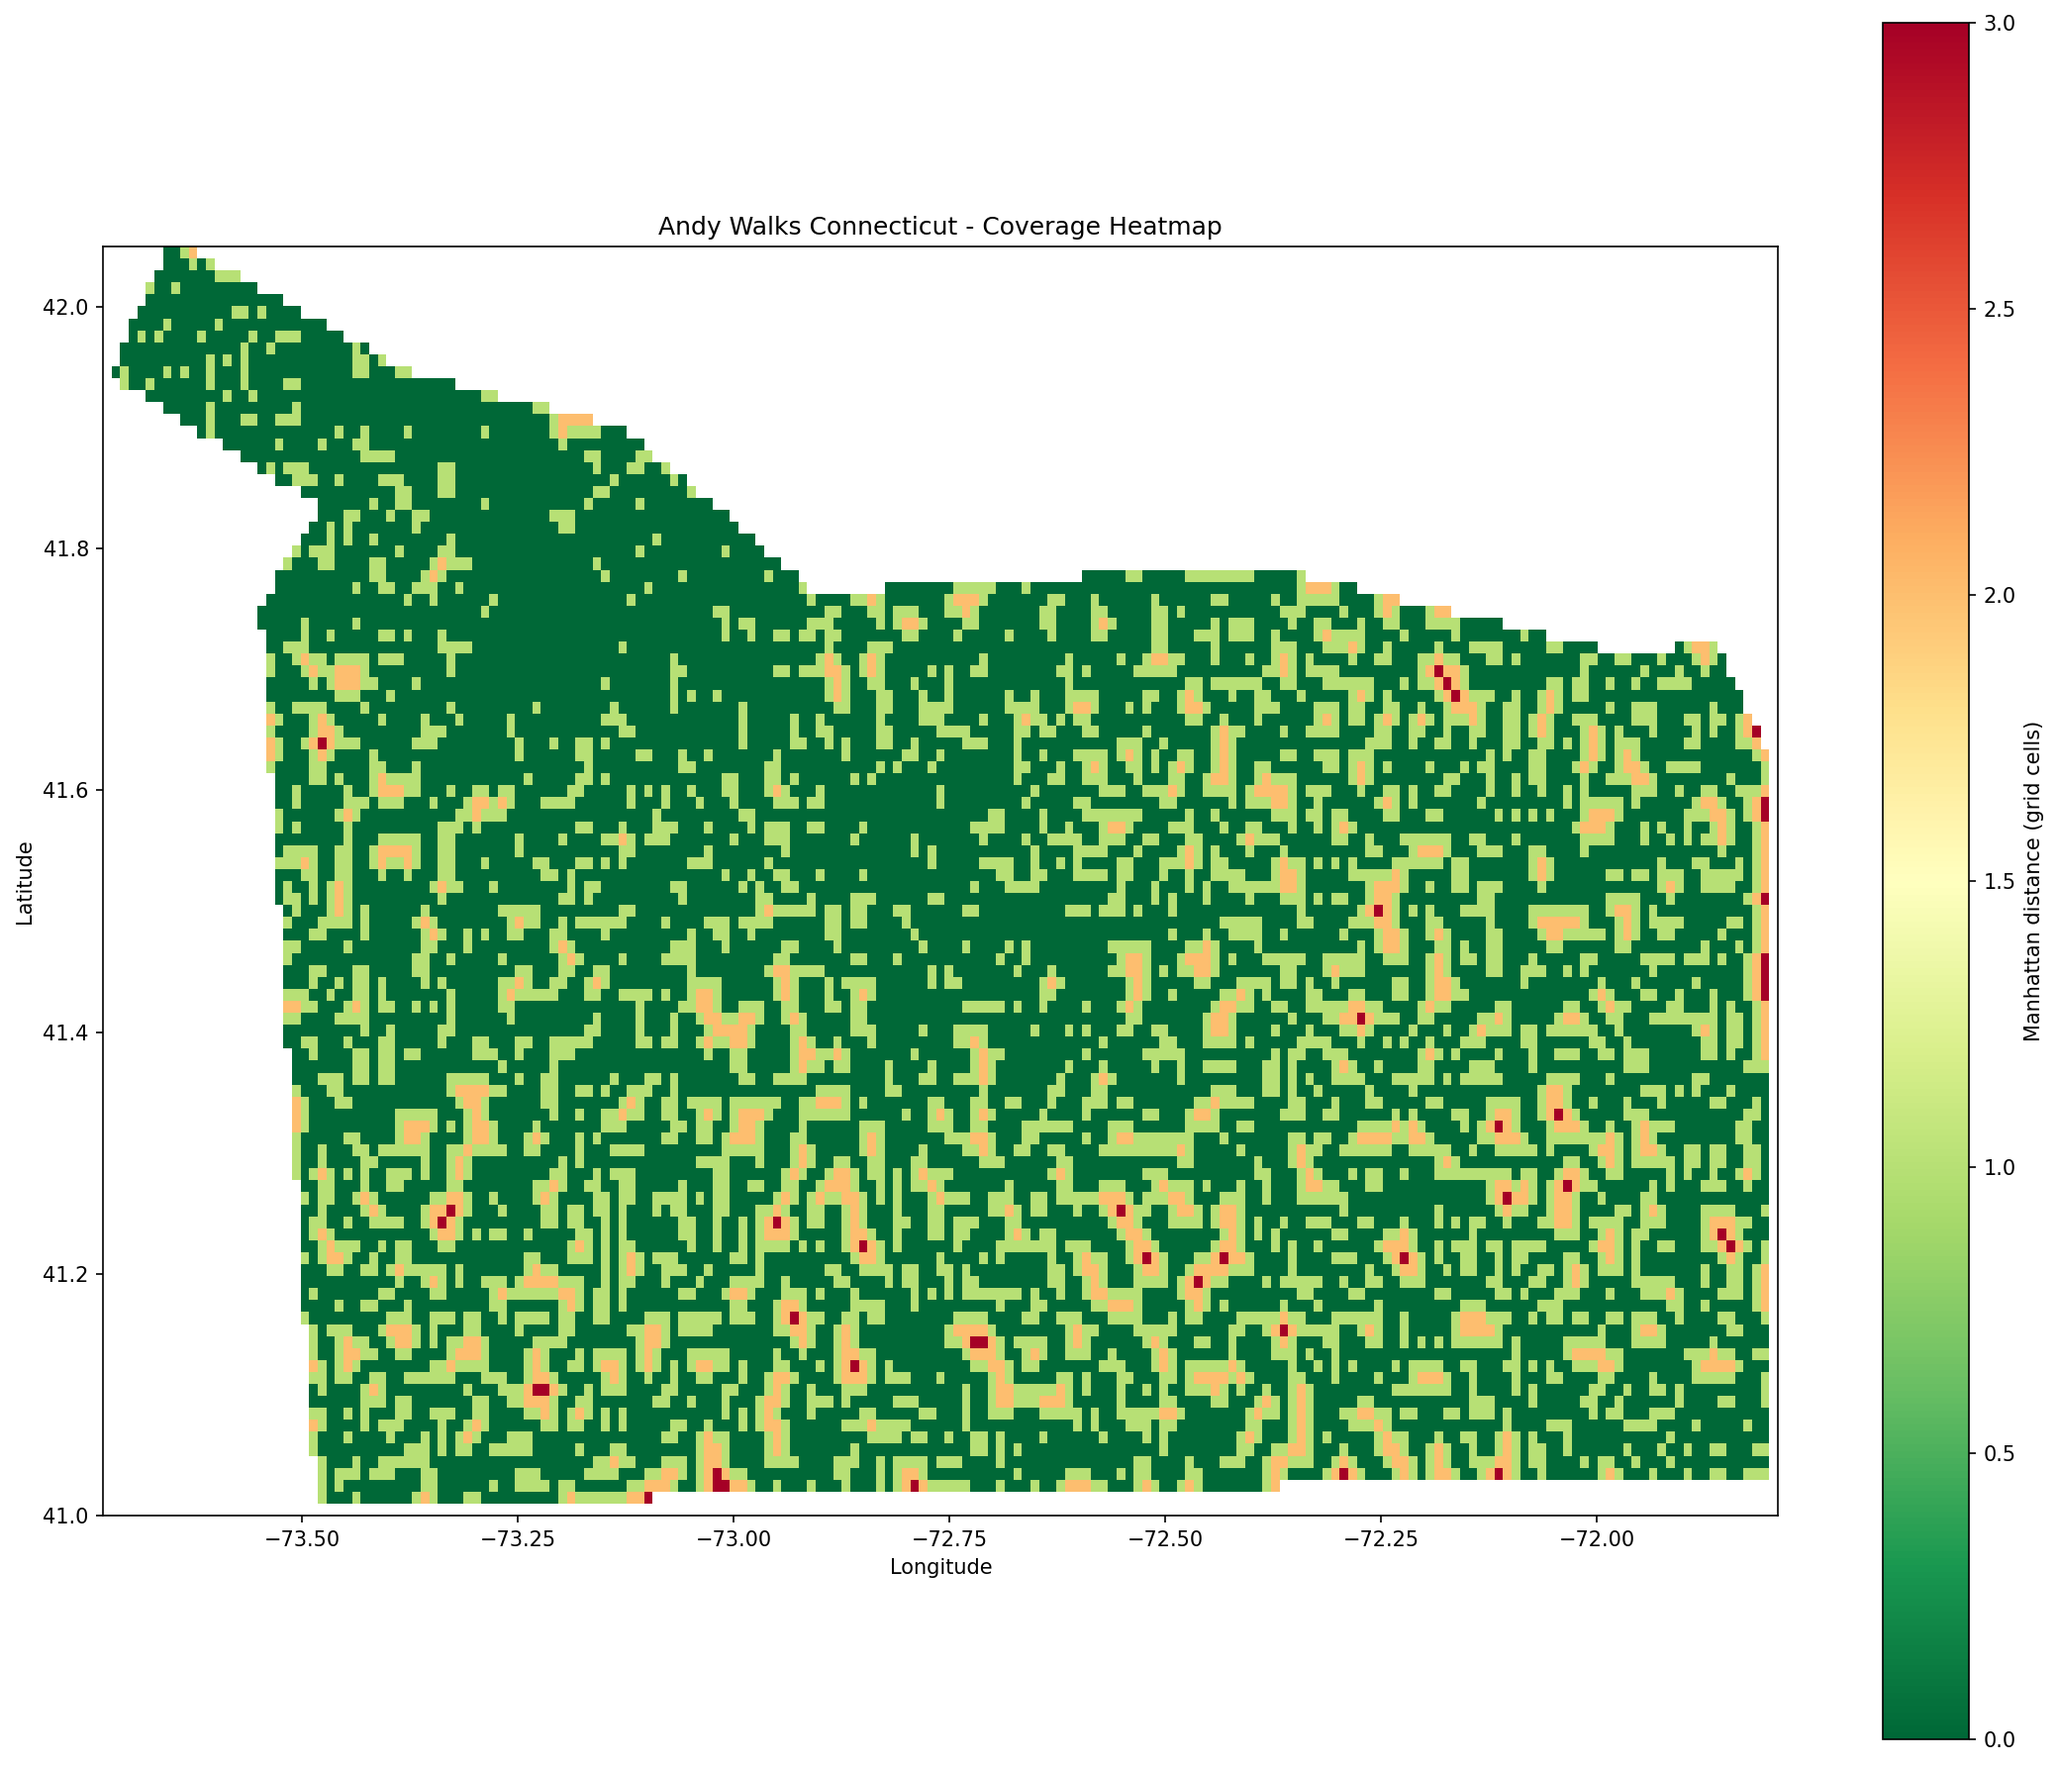
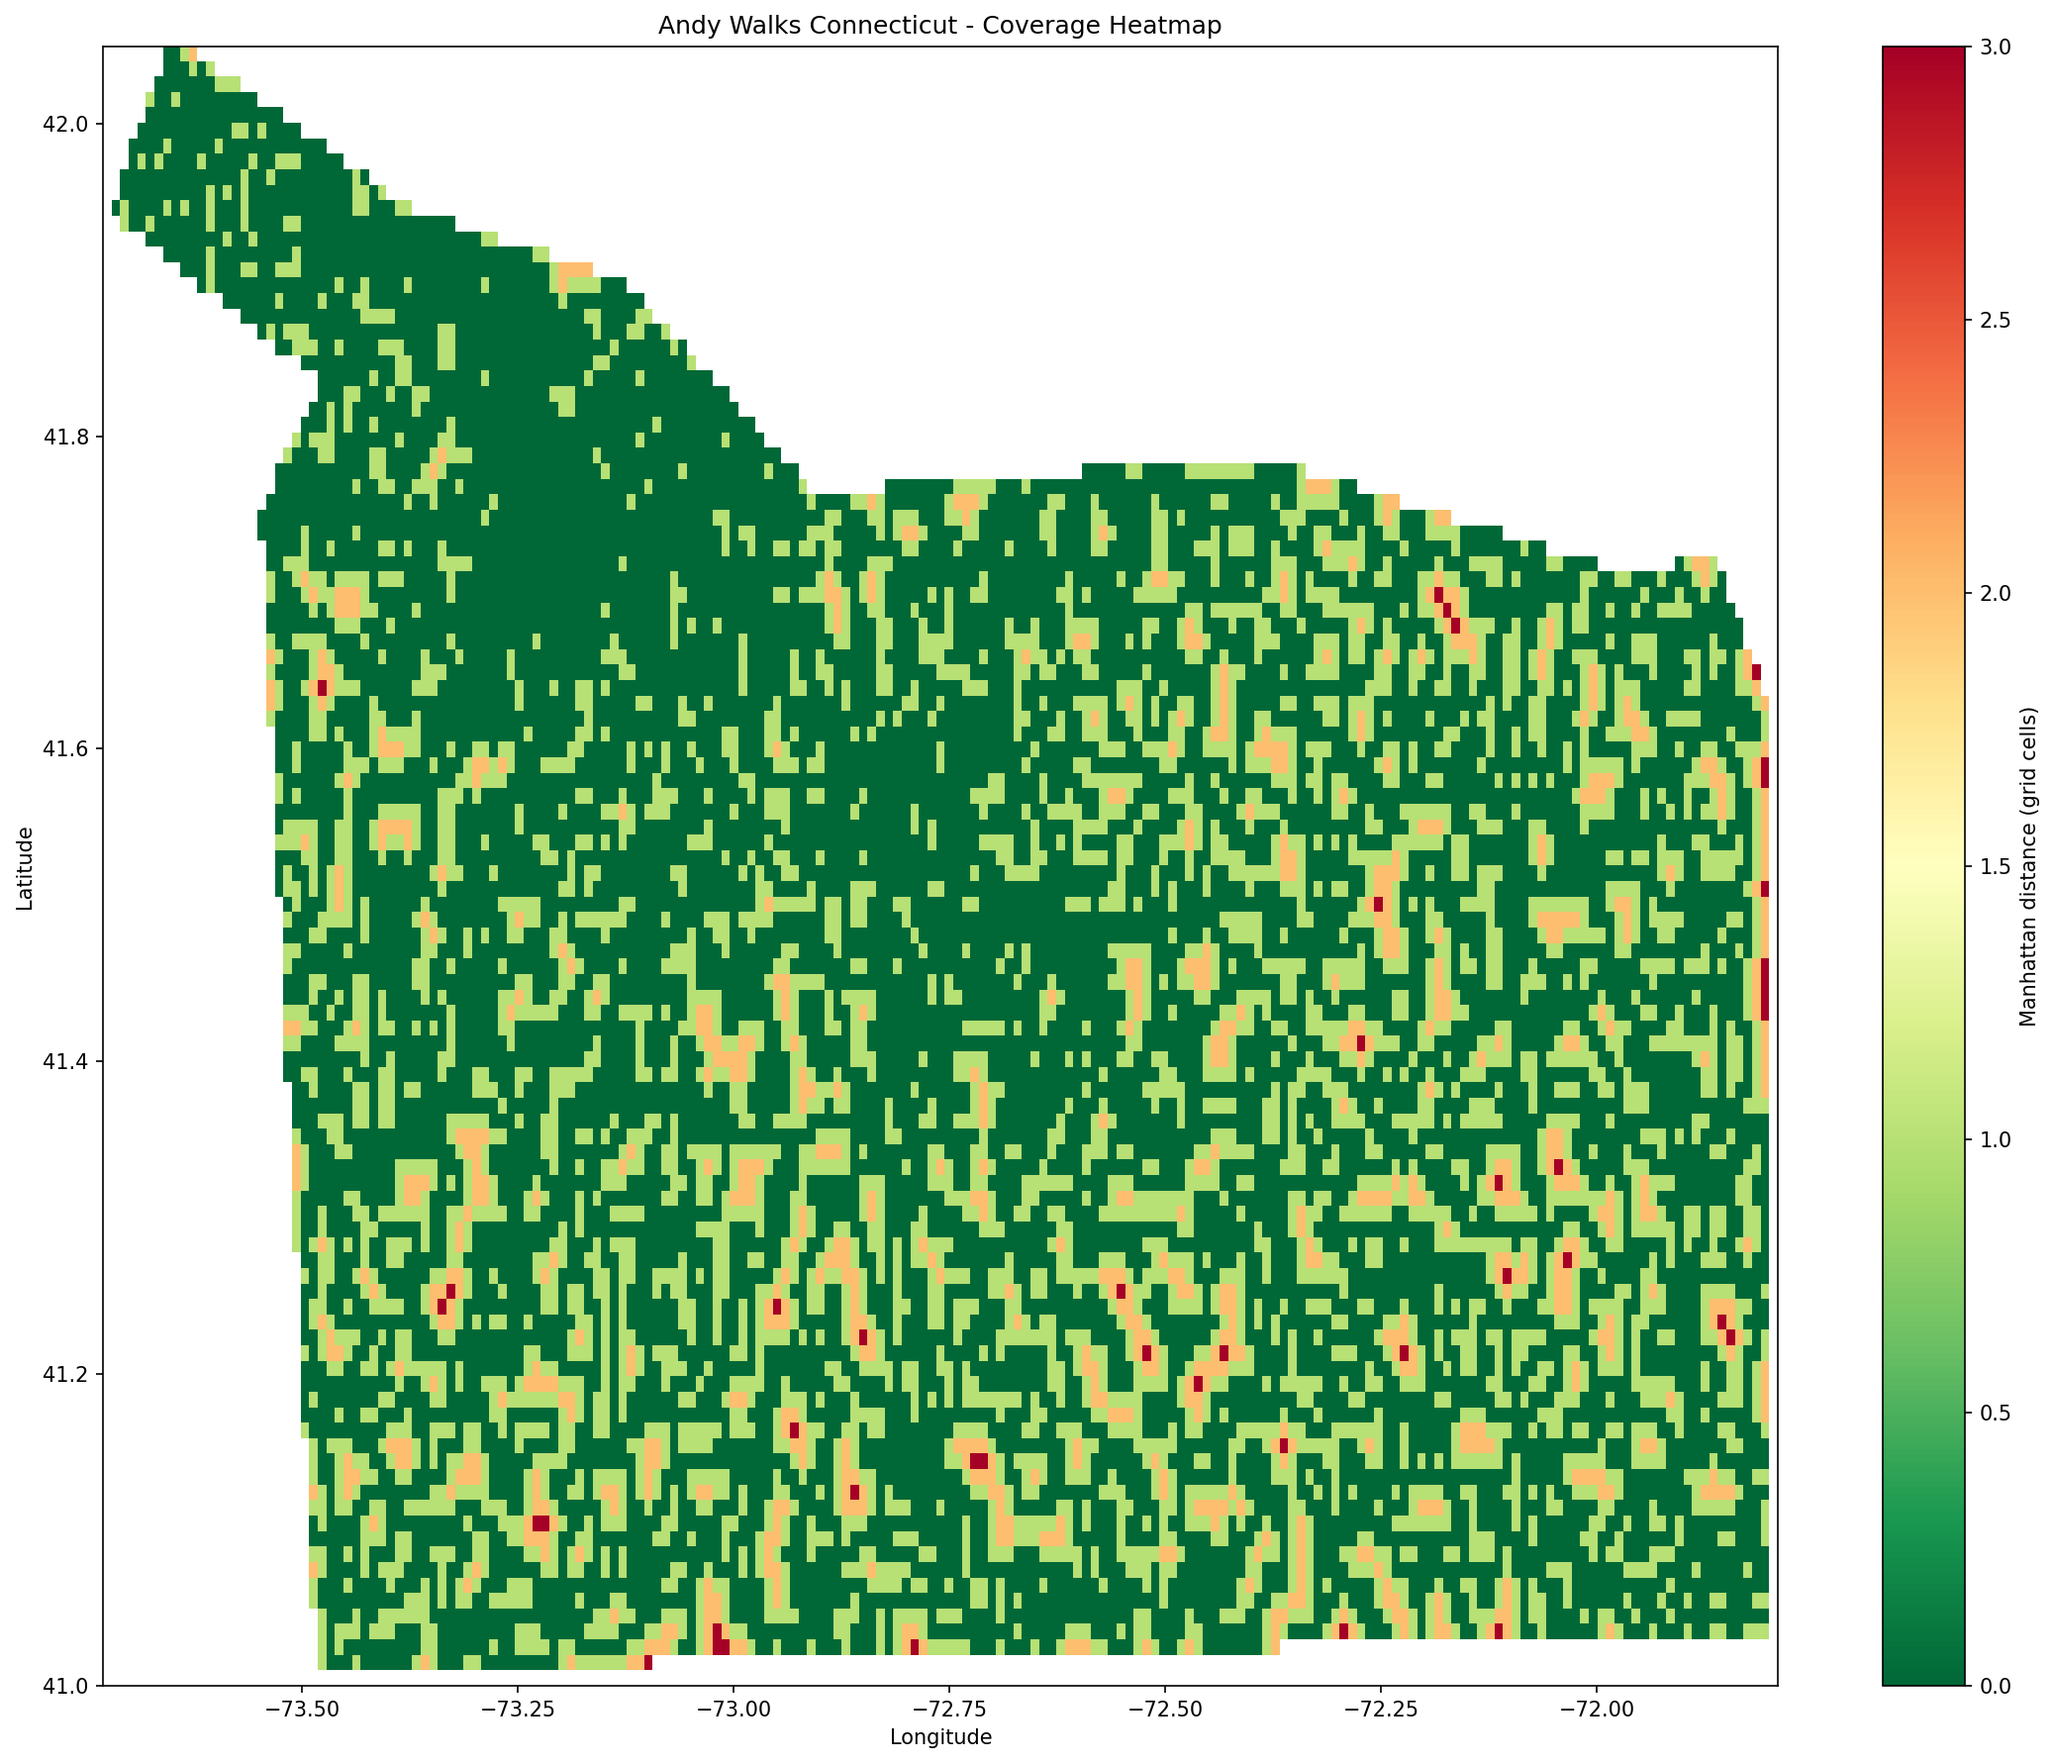
Fix heatmap display: remove double-flip and use auto aspect ratio
Changed from manual array flip + origin='lower' to origin='upper' (default), which correctly displays north at top. Changed aspect from 1.4 to 'auto' for accurate geographic proportions.

Files:
M  src/plotmap/heatmap.py
M  src/plotmap/heatmap.png

diff --git a/src/plotmap/heatmap.py b/src/plotmap/heatmap.py
@@ -134,16 +134,14 @@ def render_heatmap(distance_grid, extent):
     """Render distance grid as heatmap and save PNG."""
     fig, ax = plt.subplots(figsize=(15, 12))
 
-    # Flip vertically so north is up (lat increases upward)
-    distance_grid_flipped = distance_grid[::-1, :]
-
     # Render with custom colormap: green (visited) to red (far)
+    # origin='upper' is default; extent handles coordinate mapping
     im = ax.imshow(
-        distance_grid_flipped,
+        distance_grid,
         extent=extent,
-        aspect=1.4,
+        aspect='auto',
         cmap='RdYlGn_r',
-        origin='lower',
+        origin='upper',
         interpolation='nearest'
     )
 
